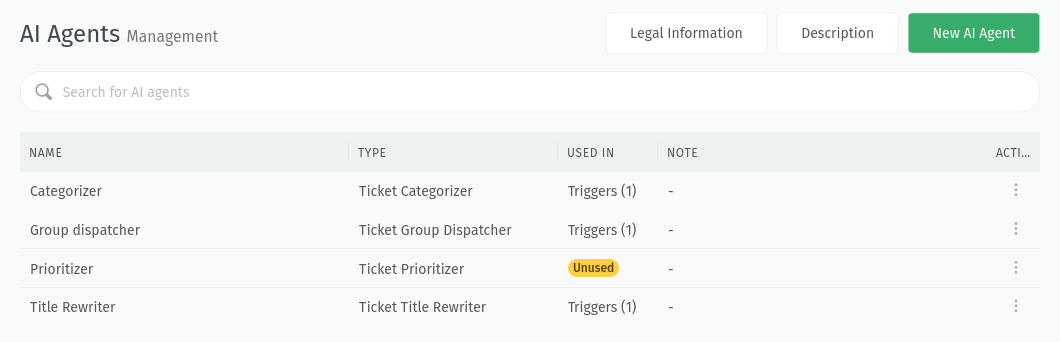
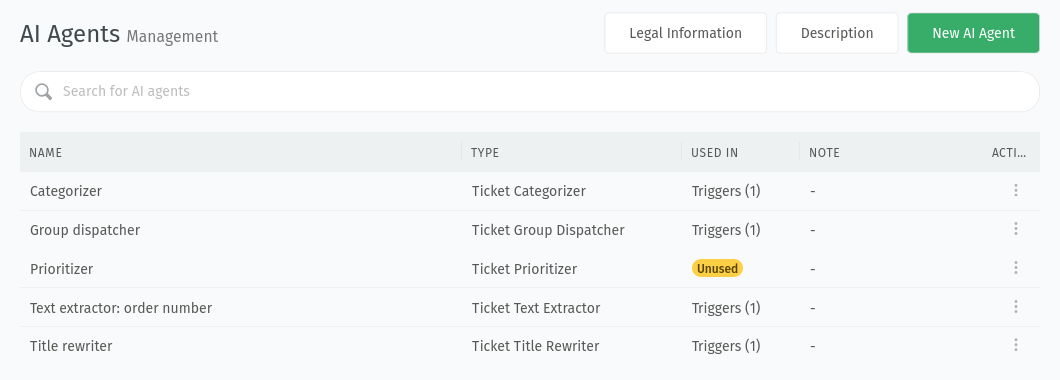
Fixes #1105 - Add text extractor AI agent with examples

diff --git a/ai/ai-agents.rst b/ai/ai-agents.rst
@@ -3,9 +3,9 @@ AI Agents
 
 To help your agents focusing on more important tasks, you can create AI agents
 which can take over routine tasks. These AI agents are managed in Zammad's
-admin settings under *AI > AI Agents*. Make sure to configure an
-:doc:`AI provider <provider>` before activating the feature. Otherwise, a
-warning message will tell you to do so.
+admin settings under *AI > AI Agents* and require ``admin.ai_agent`` permission.
+Make sure to configure an :doc:`AI provider <provider>` before activating the
+feature. Otherwise, a warning message will tell you to do so.
 
 While an AI agent works on a ticket, an avatar is displayed in the
 live user section in the bottom bar of the ticket detail view, see example
@@ -21,7 +21,6 @@ the ticket because they could get overwritten.
 Important Information
 ---------------------
 
-- To configure AI agents, the ``admin.ai_agent`` permission is required
 - AI agents don't run on their own. They have to be invoked by a
   :doc:`trigger </manage/trigger>`, a :doc:`scheduler job </manage/scheduler>`
   or a :doc:`macro </manage/macros>` with the action **AI** > **AI Agent**.
@@ -93,6 +92,131 @@ This AI agent is capable of setting a ticket priority based on the title of the
 ticket and the content of the last article. You can choose to use all priorities
 or limit them to specific ones. In case you limit the priorities, you can also
 provide a description for each priority the AI agent can choose from.
+
+Ticket Text Extractor
+^^^^^^^^^^^^^^^^^^^^^
+
+This AI agent is capable of extracting specific information from the ticket's
+content. You can use it to extract information such as a product name, an
+order number, a serial number or any other information you want.
+
+Make sure to have a :doc:`custom ticket attribute </system/objects>` in which
+you want to store the extracted information. Otherwise, create a suitable one
+before configuring the AI agent. The field type must be one of the following:
+
+- Text
+- Textarea
+- Integer
+- Single selection
+- Single tree selection
+
+For select-type attributes, the wizard allows you to limit the options the AI
+agent can choose from and to add descriptions for them. For these types, the
+AI agent also receives the list of allowed options to choose from in case of a
+match.
+
+Extraction Rules
+""""""""""""""""
+
+Here you tell the agent what information to extract. It is highly recommended
+to provide some examples and include different variants of how the information
+might appear in the ticket. The wizard includes a default example for
+extracting an order number. Replace or adjust it to your own
+use case. You can find a few examples in the :ref:`extractor-examples` section
+below as inspiration.
+
+Priority Rules
+""""""""""""""
+
+The priority rules tell the agent how to deal with multiple matches. There is a
+default example that should cover common scenarios. Adjust it if your scenario
+differs.
+
+Example priority rules:
+
+.. code-block:: none
+
+   If multiple matches are found, prioritize based on the following rules:
+   - If one of the matches is in the ticket title, prioritize that one.
+   - If there are multiple matches in the same article, prioritize the one that appears first in the text.
+
+   Always return only one match.
+
+
+Article(s) to Analyze
+"""""""""""""""""""""
+
+Choose between:
+
+- All articles
+- Last article (newest)
+- First article (oldest)
+
+Depending on the way, time and condition an AI agent runs, the relevant
+article(s) can be different. In most cases, *Last article (newest)* should be
+fine. In certain cases, however, it might make sense to use another
+option. For example, if the agent is triggered manually by a macro,
+*All articles* could fit as well.
+
+.. _extractor-examples:
+
+Examples
+""""""""
+
+Expand the following code block to see these **extraction rules** examples:
+
+- Extract order number
+- Extract contact person for insurance claim
+- Extract product name
+
+.. code-block:: none
+
+   Extract Order Number
+   --------------------
+
+   Extract value of an order number from the input.
+
+   The value may be provided in one of the following formats:
+   - Order#1234567
+   - Order No: 1234567
+   - Order number: 1234567
+
+   Take only the number as the value, without any additional text.
+
+   Priority rules:
+
+   If multiple matches are found, prioritize based on the following rules:
+   - If one of the matches is in the ticket title, prioritize that one.
+   - If there are multiple matches in the same article, prioritize the one that appears first in the text.
+
+   Always return only one match.
+
+   #########################################################################
+
+   Extract Contact Person for Insurance Claim
+   ------------------------------------------
+
+   Extract name of the contact person for an insurance claim. This should be the person who is insured by an active policy.
+
+   The name may be mentioned in one of the following contexts:
+   - Someone claiming on the insurance policy for themselves
+   - Someone claiming on the insurance policy on behalf of another person
+   - A colleague asking for help with an insurance claim that was originally sent by someone else
+
+   Consider only the name of the person who is actually insured, no matter who is claiming against their policy.
+
+   In case the request is not an insurance claim, return an empty string.
+
+   #########################################################################
+
+   Extract Product Name
+   --------------------
+
+   Extract name of the affected product from the input.
+
+   The value may be one of the listed values (exact match), or one that resembles one of the listed values (partial match).
+
+   Take only the product name as the value, without any additional text.
 
 Ticket Title Rewriter
 ^^^^^^^^^^^^^^^^^^^^^
